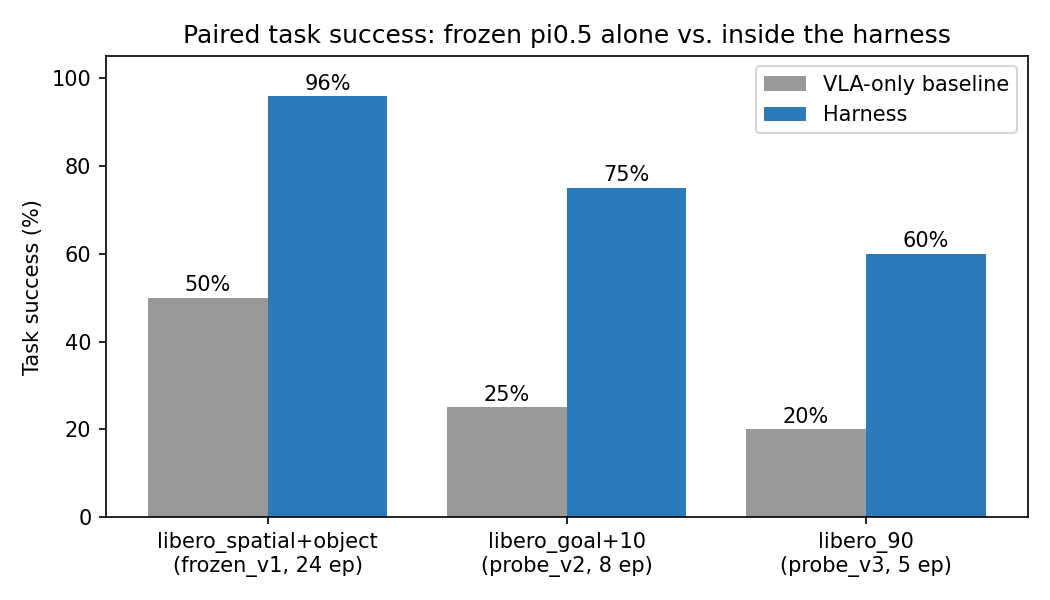
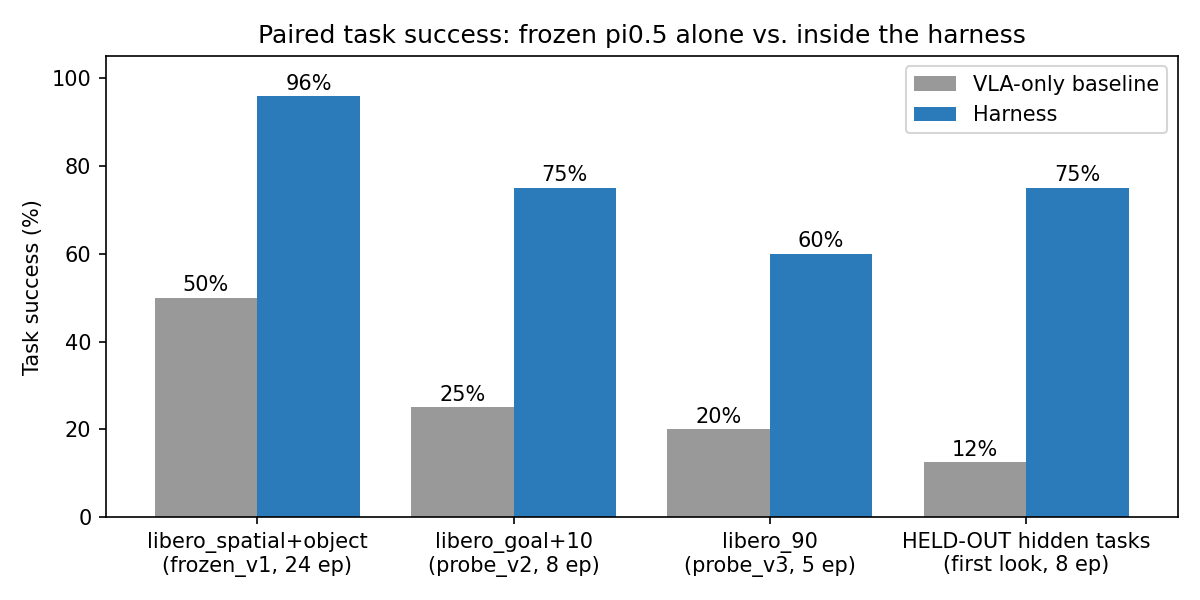
docs: integra avaliação oculta ao card principal (gráfico + conclusões)

diff --git a/scripts/make_card_charts_20260817.py b/scripts/make_card_charts_20260817.py
@@ -24,10 +24,10 @@ def turns(battery):
             yield f, json.loads(line)
 
 # 1) success rates
-fig, ax = plt.subplots(figsize=(7, 4))
-suites = ["libero_spatial+object\n(frozen_v1, 24 ep)", "libero_goal+10\n(probe_v2, 8 ep)", "libero_90\n(probe_v3, 5 ep)"]
-baseline = [50.0, 25.0, 20.0]
-harness = [95.8, 75.0, 60.0]
+fig, ax = plt.subplots(figsize=(8, 4))
+suites = ["libero_spatial+object\n(frozen_v1, 24 ep)", "libero_goal+10\n(probe_v2, 8 ep)", "libero_90\n(probe_v3, 5 ep)", "HELD-OUT hidden tasks\n(first look, 8 ep)"]
+baseline = [50.0, 25.0, 20.0, 12.5]
+harness = [95.8, 75.0, 60.0, 75.0]
 x = range(len(suites))
 ax.bar([i - 0.2 for i in x], baseline, width=0.4, label="VLA-only baseline", color="#999")
 ax.bar([i + 0.2 for i in x], harness, width=0.4, label="Harness", color="#2b7bba")

diff --git a/docs/runs/GITHUB_CARD_LIBERO_20260817.md b/docs/runs/GITHUB_CARD_LIBERO_20260817.md
@@ -14,14 +14,17 @@ Over four days we ran six trace-driven improvement iterations (prompt contracts,
 | **probe_v2** | `libero_goal` + `libero_10` (long-horizon), 4 tasks × 2 states × 1 seed = 8 episodes (`eval_protocol_v2.json`) | Difficulty ladder: fixture manipulation (drawer, stove) and multi-object placement |
 | **probe_v3** | `libero_90`, 5 tasks × 1 state × 1 seed (`eval_protocol_v3.json`) | Generalization probe: stacking, appliance buttons, relational placement, compartment insertion |
 | **think ablation** | frozen_v1 subset, seed 101 (8 episodes, identical tuples) | Cost/benefit of the planner's thinking mode (`--planner-think on/off`) |
+| **held-out hidden tasks** | 4 tasks never run before (spatial 7, object 8 × 3 seeds; goal 7, libero_10 8 × 1 seed = 8 episodes) | Anti-overfitting check: first and only look, code frozen, zero adjustments |
 
-All runs on a single V100 GPU (VLA server, port 8010); planner runs CPU-only. Hidden tasks in every protocol remain untouched for a final anti-overfitting evaluation.
+All runs on a single V100 GPU (VLA server, port 8010); planner runs CPU-only.
 
 ## Results
 
 ![Paired task success](assets/card_20260817/success_rates.png)
 
 The harness beats the VLA-only baseline on every suite, and the gap **widens with task difficulty**: +45.8 pp on frozen_v1 (95.8% vs 50.0%), +50 pp on long-horizon probe_v2 (75% vs 25%), +40 pp on libero_90 probe_v3 (60% vs 20%). The baseline's frozen_v1 score is inflated by libero_spatial (12/12); it scores 0/12 on libero_object, where the harness scores 11/12.
+
+**Held-out check.** Because all six iterations were tuned while looking at the visible tasks, each protocol reserved hidden tasks that were never executed until the end. Run once with the code frozen: harness **6/8 (75%)** vs baseline **1/8 (12.5%)** — including 5/6 vs 0/6 on frozen_v1's hidden pair. The only new failure ("put both moka pots on the stove") is the already-known physical grasp failure mode, not a prompt that failed to generalize.
 
 ## How the harness behaves
 
@@ -47,6 +50,7 @@ The harness beats the VLA-only baseline on every suite, and the gap **widens wit
 2. **Symbolic feedback is what unlocked the gains.** All six iterations changed only what the planner sees (prompt contracts, per-turn error feedback, `turn_history`) — never the VLA, the predicates, or the protocols. Task success went from 29.2% (initial harness) to 95.8% under identical episodes.
 3. **The remaining failures are physical, not logical.** Traces show correct multi-object sequencing (grasp → place → release → next object, no re-grasping); the frozen VLA simply misses the grasp on the second object. Further progress needs either grasp retries with varied prompts or analytic approach poses — not more planner logic.
 4. **Thinking mode is a latency/accuracy dial**: 2.5× faster turns for −1 success. With a GPU-served planner the trade-off would likely vanish.
-5. **Not claimed:** probes use 1 seed (no error bars), hidden tasks are not yet evaluated, and iterations are cumulative (no per-iteration ablation). These are the next steps, starting with the hidden-task evaluation via `--hidden-only`.
+5. **The improvements generalize.** On held-out tasks seen for the first time after all tuning was done, the harness kept its margin (75% vs 12.5% baseline) and reproduced the visible-task pattern (baseline 0/6 on hidden frozen_v1, harness 5/6). No sign of prompt overfitting.
+6. **Not claimed:** probes use 1 seed (no error bars) and iterations are cumulative (no per-iteration ablation). Next steps: more seeds on the probes, a `turn_history` ablation, and attacking the remaining physical-grasp failure mode.
 
 *Scientific scope: the one-primitive-per-turn loop, `vla_act` contract, analytic primitives, and official-predicate authority follow arXiv:2607.08448v2 (paper-confirmed). Prompt contracts, empty-hand fixture tau, and `turn_history` are unspecified details we fixed (paper-compatible). Protocols, guards-as-feedback, retries, and all charts are local instrumentation (beta-only).*
